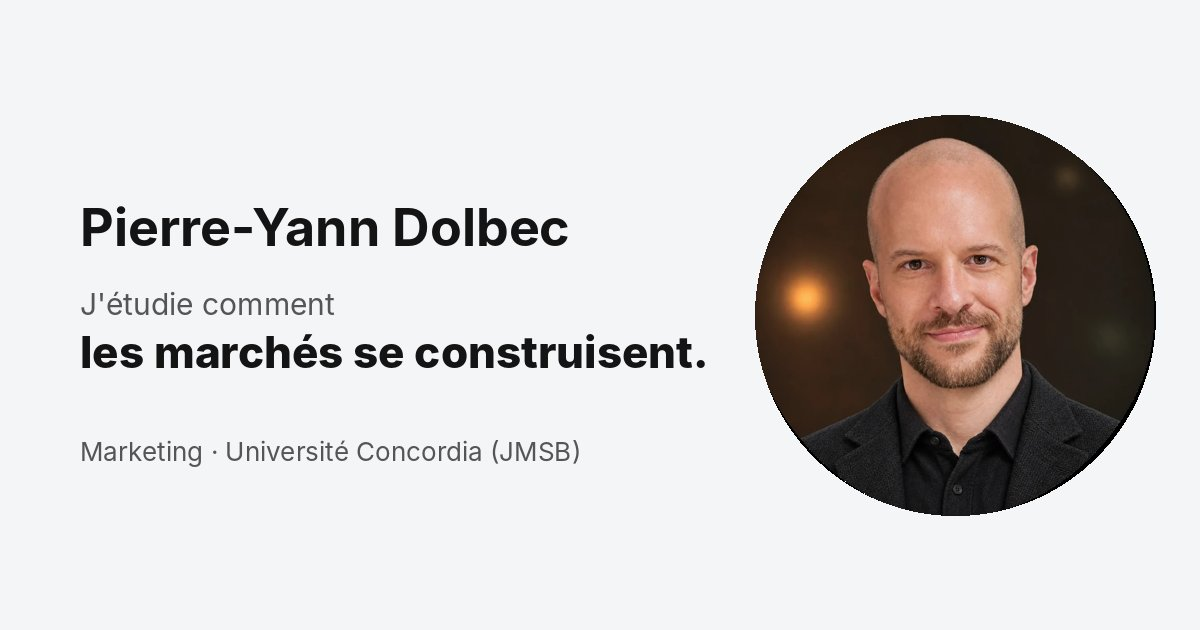
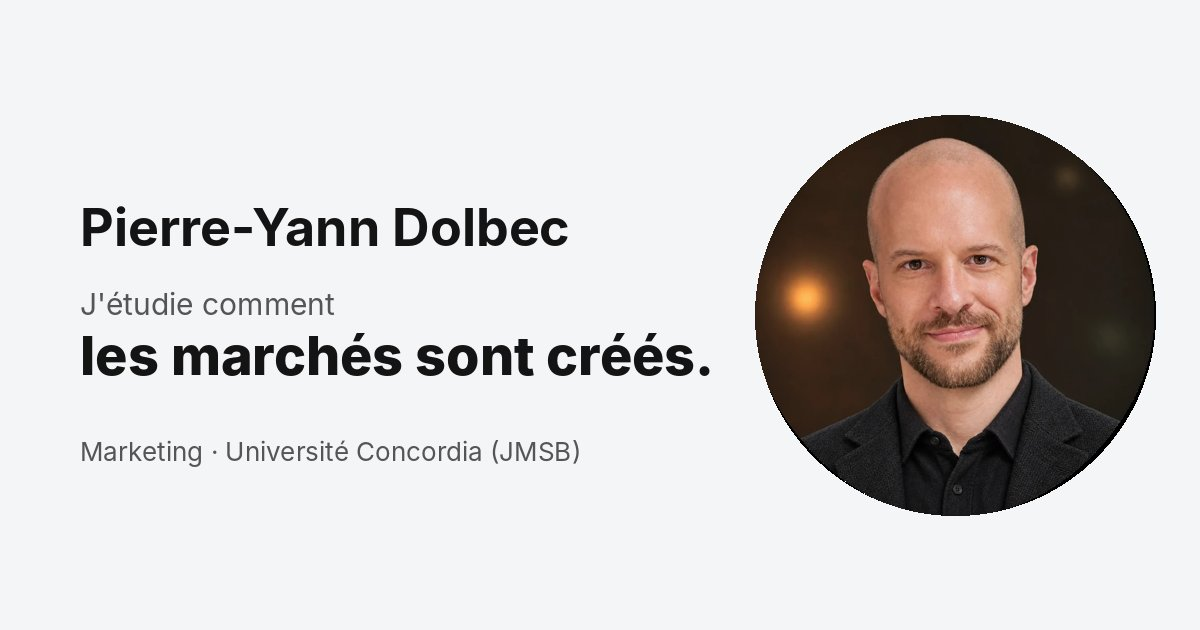
French tagline: « Les marchés sont créés. »
Claude-Session: https://claude.ai/code/session_019wVdqta6m8tHTeBzfYNKRC

Changed region(s): [[0.0617, 0.5127, 0.5858, 0.6032]]

diff --git a/fr/media/index.html b/fr/media/index.html
@@ -37,8 +37,8 @@
 <div><span class="chip" style="cursor:default">Marchés culturels et technologiques, goût, mode et innovation</span><span class="chip" style="cursor:default">Marché des sneakers et lancements en édition limitée (drops)</span><span class="chip" style="cursor:default">Mode de luxe, streetwear et streetwear de luxe</span><span class="chip" style="cursor:default">Marché du café et café de troisième vague</span><span class="chip" style="cursor:default">Marchandisation de l&#x27;éducation</span><span class="chip" style="cursor:default">Plateformes de services comme Uber et Airbnb</span><span class="chip" style="cursor:default">Marché de la voiture électrique et Tesla</span><span class="chip" style="cursor:default">Influenceurs et marketing sur les réseaux sociaux</span></div>
 <h2>Biographie</h2>
 <div class="bios">
-<div class="bio"><div class="kicker">Biographie courte</div><p id="bio-s">Pierre-Yann Dolbec est professeur agrégé de marketing à l&#x27;École de gestion John-Molson de l&#x27;Université Concordia, à Montréal. Il étudie comment les marchés se construisent et se transforment, du streetwear et du café aux créateurs de contenu et aux plateformes. Ses recherches paraissent dans le Journal of Consumer Research, le Journal of Marketing Research et le Journal of Marketing.</p><button class="chip" onclick="navigator.clipboard.writeText(document.getElementById('bio-s').innerText)">Copier</button></div>
-<div class="bio"><div class="kicker">Biographie longue</div><p id="bio-l">Pierre-Yann Dolbec est professeur agrégé de marketing à l&#x27;École de gestion John-Molson de l&#x27;Université Concordia, à Montréal. Il étudie comment les marchés se construisent et se transforment, et comment les entreprises et les consommateurs gèrent la complexité qui en découle. Ses travaux portent sur les marchés de la mode et du streetwear, du café, des sneakers, de la musique, de l&#x27;éducation et des plateformes comme Uber et Airbnb, ainsi que sur l&#x27;économie des créateurs. Ils paraissent dans le Journal of Consumer Research, le Journal of Marketing Research, le Journal of Marketing et l&#x27;Academy of Management Journal, et ont été présentés au Forum économique mondial. Il a reçu près de 1 M$ en financement de recherche et siège aux comités de rédaction de six revues, dont le Journal of Consumer Research et le Journal of Consumer Psychology. Ses travaux ont été couverts par CBC, Radio-Canada, CTV, Global TV, Channel News Asia, Le Devoir, Les Affaires et le National Post. Il accorde des entrevues en français et en anglais.</p><button class="chip" onclick="navigator.clipboard.writeText(document.getElementById('bio-l').innerText)">Copier</button></div>
+<div class="bio"><div class="kicker">Biographie courte</div><p id="bio-s">Pierre-Yann Dolbec est professeur agrégé de marketing à l&#x27;École de gestion John-Molson de l&#x27;Université Concordia, à Montréal. Il étudie comment les marchés sont créés et se transforment, du streetwear et du café aux créateurs de contenu et aux plateformes. Ses recherches paraissent dans le Journal of Consumer Research, le Journal of Marketing Research et le Journal of Marketing.</p><button class="chip" onclick="navigator.clipboard.writeText(document.getElementById('bio-s').innerText)">Copier</button></div>
+<div class="bio"><div class="kicker">Biographie longue</div><p id="bio-l">Pierre-Yann Dolbec est professeur agrégé de marketing à l&#x27;École de gestion John-Molson de l&#x27;Université Concordia, à Montréal. Il étudie comment les marchés sont créés et se transforment, et comment les entreprises et les consommateurs gèrent la complexité qui en découle. Ses travaux portent sur les marchés de la mode et du streetwear, du café, des sneakers, de la musique, de l&#x27;éducation et des plateformes comme Uber et Airbnb, ainsi que sur l&#x27;économie des créateurs. Ils paraissent dans le Journal of Consumer Research, le Journal of Marketing Research, le Journal of Marketing et l&#x27;Academy of Management Journal, et ont été présentés au Forum économique mondial. Il a reçu près de 1 M$ en financement de recherche et siège aux comités de rédaction de six revues, dont le Journal of Consumer Research et le Journal of Consumer Psychology. Ses travaux ont été couverts par CBC, Radio-Canada, CTV, Global TV, Channel News Asia, Le Devoir, Les Affaires et le National Post. Il accorde des entrevues en français et en anglais.</p><button class="chip" onclick="navigator.clipboard.writeText(document.getElementById('bio-l').innerText)">Copier</button></div>
 </div>
 <h2>Dans les médias</h2>
 <div class="row news"><b>Academy of Management Insights</b><span>Brazil&#x27;s Temporary Stadium Beer Policy Was a Game-Changer</span><span class="y">2026</span></div><div class="row news"><b>The Up Next Podcast</b><span>How Creators Monetize their Work (with Andrew Smith)</span><span class="y">2026</span></div><div class="row news"><b>CBC News</b><span>They&#x27;re odd, unique and expensive — why niche perfumes are trending</span><span class="y">2026</span></div><div class="row news"><b>Clin d&#x27;Œil</b><span>Pourquoi les prix des parfums sont-ils astronomiques?</span><span class="y">2025</span></div><div class="row news"><b>CBC News</b><span>This video game retailer is revamping the in-store experience for Montreal gamers</span><span class="y">2025</span></div><div class="row news"><b>The Conversation</b><span>Doechii&#x27;s Thom Browne look at the Grammys bridged street culture and luxury fashion</span><span class="y">2025</span></div><div class="row news"><b>CBC Radio One</b><span>Can Reddit stay &#x27;real&#x27;?</span><span class="y">2024</span></div><div class="row news"><b>Radio-Canada, 15-18</b><span>Poursuite végétalienne contre Starbucks et Dunkin&#x27;</span><span class="y">2024</span></div><div class="row news"><b>World Economic Forum, Davos</b><span>The AAK Kolo Nafaso Programme: Securing an Alternative Shea Supply Chain</span><span class="y">2024</span></div><div class="row news"><b>La Presse</b><span>Cafés italiens nouveau genre</span><span class="y">2023</span></div><div class="row news"><b>Radio-Canada, 15-18</b><span>Les grandes chaînes et la culture du café</span><span class="y">2023</span></div><div class="row news"><b>Radio-Canada, 15-18</b><span>On the launch of Starbucks&#x27; Oleato</span><span class="y">2023</span></div><div class="row news"><b>Chief Scientist of Quebec</b><span>Embracing responsible consumption</span><span class="y">2023</span></div><div class="row news"><b>CBC, Let&#x27;s Go</b><span>On the launch of Nike SB Montreal</span><span class="y">2023</span></div><div class="row news"><b>La Presse</b><span>Quel avenir pour nos cafés?</span><span class="y">2022</span></div><div class="row news"><b>CTV News Montreal</b><span>Weekend with Amanda Kline</span><span class="y">2022</span></div><div class="row news"><b>The Conversation</b><span>The craft revolution helped develop the market for specialty coffee</span><span class="y">2022</span></div><div class="row news"><b>INSEAD Knowledge</b><span>Transforming a supply chain into a social enterprise</span><span class="y">2022</span></div><div class="row news"><b>Built In</b><span>Product &#x27;drops&#x27; aren&#x27;t just for sneaker brands</span><span class="y">2021</span></div><div class="row news"><b>The Conversation</b><span>WallStreetBets is disrupting financial markets — possibly permanently</span><span class="y">2021</span></div><div class="row news"><b>Global TV</b><span>Morning News with Laura Casella</span><span class="y">2020</span></div><div class="row news"><b>CJAD 800</b><span>The Andrew Carter Morning Show</span><span class="y">2020</span></div><div class="row news"><b>CTV News</b><span>CTV News at Five</span><span class="y">2020</span></div><div class="row news"><b>Radio-Canada</b><span>L&#x27;Heure du monde</span><span class="y">2019</span></div><div class="row news"><b>Journal de Montréal</b><span>Uber fait souffrir les taxis</span><span class="y">2019</span></div><div class="row news"><b>CJAD 800</b><span>Is Uber beneficial for cities?</span><span class="y">2019</span></div><div class="row news"><b>Les Affaires</b><span>Trois stratégies pour combattre un Airbnb, Tesla ou Uber</span><span class="y">2017</span></div><div class="row news"><b>Le Devoir</b><span>Après Uber, est-ce que l&#x27;application Lyft s&#x27;apprête à prendre pied au Canada?</span><span class="y">2017</span></div>

diff --git a/fr/index.html b/fr/index.html
@@ -4,14 +4,14 @@
 <meta charset="utf-8">
 <meta name="viewport" content="width=device-width, initial-scale=1">
 <title>Pierre-Yann Dolbec · Professeur agrégé de marketing, Université Concordia</title>
-<meta name="description" content="Pierre-Yann Dolbec est professeur agrégé de marketing à l&#x27;École de gestion John-Molson de l&#x27;Université Concordia. Il étudie comment les marchés se construisent, du streetwear au café de spécialité et à l&#x27;économie des créateurs.">
+<meta name="description" content="Pierre-Yann Dolbec est professeur agrégé de marketing à l&#x27;École de gestion John-Molson de l&#x27;Université Concordia. Il étudie comment les marchés sont créés, du streetwear au café de spécialité et à l&#x27;économie des créateurs.">
 <link rel="canonical" href="https://pydolbec.com/fr/">
 <link rel="alternate" hreflang="en" href="https://pydolbec.com/">
 <link rel="alternate" hreflang="fr" href="https://pydolbec.com/fr/">
 <link rel="alternate" hreflang="x-default" href="https://pydolbec.com/">
 <meta property="og:title" content="Pierre-Yann Dolbec · Professeur agrégé de marketing, Université Concordia">
 <meta property="og:url" content="https://pydolbec.com/fr/">
-<meta property="og:description" content="Pierre-Yann Dolbec est professeur agrégé de marketing à l&#x27;École de gestion John-Molson de l&#x27;Université Concordia. Il étudie comment les marchés se construisent, du streetwear au café de spécialité et à l&#x27;économie des créateurs.">
+<meta property="og:description" content="Pierre-Yann Dolbec est professeur agrégé de marketing à l&#x27;École de gestion John-Molson de l&#x27;Université Concordia. Il étudie comment les marchés sont créés, du streetwear au café de spécialité et à l&#x27;économie des créateurs.">
 <meta property="og:type" content="website">
 <meta property="og:image" content="https://pydolbec.com/assets/img/og/default-fr.jpg">
 <meta property="og:image:width" content="1200">
@@ -34,7 +34,7 @@
 <div class="wrap">
 <section class="hero">
 <div>
-<h1 class="hero-h1"><span class="s1">J&#x27;étudie comment</span> <span class="big">Les marchés se construisent.</span></h1>
+<h1 class="hero-h1"><span class="s1">J&#x27;étudie comment</span> <span class="big">Les marchés sont créés.</span></h1>
 <p class="s2">Le streetwear dans le luxe, le café de spécialité, l&#x27;économie des créateurs : chacun est devenu un marché parce que des gens l&#x27;ont bâti. Ma recherche montre qui les a bâtis, et comment.</p>
 <p class="s3"><b>Pierre-Yann Dolbec</b> · Professeur agrégé de marketing, École de gestion John-Molson, Université Concordia</p>
 </div>

diff --git a/fr/research/index.html b/fr/research/index.html
@@ -4,14 +4,14 @@
 <meta charset="utf-8">
 <meta name="viewport" content="width=device-width, initial-scale=1">
 <title>Recherche · Pierre-Yann Dolbec</title>
-<meta name="description" content="Recherche de Pierre-Yann Dolbec sur la construction des marchés : streetwear et mode de luxe, café artisanal, économie des créateurs, réglementation et méthodes qualitatives.">
+<meta name="description" content="Recherche de Pierre-Yann Dolbec sur la création des marchés : streetwear et mode de luxe, café artisanal, économie des créateurs, réglementation et méthodes qualitatives.">
 <link rel="canonical" href="https://pydolbec.com/fr/research/">
 <link rel="alternate" hreflang="en" href="https://pydolbec.com/research/">
 <link rel="alternate" hreflang="fr" href="https://pydolbec.com/fr/research/">
 <link rel="alternate" hreflang="x-default" href="https://pydolbec.com/research/">
 <meta property="og:title" content="Recherche · Pierre-Yann Dolbec">
 <meta property="og:url" content="https://pydolbec.com/fr/research/">
-<meta property="og:description" content="Recherche de Pierre-Yann Dolbec sur la construction des marchés : streetwear et mode de luxe, café artisanal, économie des créateurs, réglementation et méthodes qualitatives.">
+<meta property="og:description" content="Recherche de Pierre-Yann Dolbec sur la création des marchés : streetwear et mode de luxe, café artisanal, économie des créateurs, réglementation et méthodes qualitatives.">
 <meta property="og:type" content="website">
 <meta property="og:image" content="https://pydolbec.com/assets/img/og/default-fr.jpg">
 <meta property="og:image:width" content="1200">

diff --git a/_build/content.py b/_build/content.py
@@ -21,7 +21,7 @@ HOME_SEO = {
            "desc": "Pierre-Yann Dolbec is Associate Professor of Marketing at Concordia University's John Molson School of Business. He studies how markets are made, from streetwear and craft coffee to the creator economy."},
     "fr": {"title": "Professeur agrégé de marketing, Université Concordia",
            "job": "Professeur agrégé de marketing",
-           "desc": "Pierre-Yann Dolbec est professeur agrégé de marketing à l'École de gestion John-Molson de l'Université Concordia. Il étudie comment les marchés se construisent, du streetwear au café de spécialité et à l'économie des créateurs."},
+           "desc": "Pierre-Yann Dolbec est professeur agrégé de marketing à l'École de gestion John-Molson de l'Université Concordia. Il étudie comment les marchés sont créés, du streetwear au café de spécialité et à l'économie des créateurs."},
 }
 
 PAGE_DESC = {
@@ -33,7 +33,7 @@ PAGE_DESC = {
     },
     "fr": {
         "about": "À propos de Pierre-Yann Dolbec, professeur agrégé de marketing à l'École de gestion John-Molson de l'Université Concordia : recherche, parcours, comités de lecture et CV.",
-        "research": "Recherche de Pierre-Yann Dolbec sur la construction des marchés : streetwear et mode de luxe, café artisanal, économie des créateurs, réglementation et méthodes qualitatives.",
+        "research": "Recherche de Pierre-Yann Dolbec sur la création des marchés : streetwear et mode de luxe, café artisanal, économie des créateurs, réglementation et méthodes qualitatives.",
         "media": "Ressources médias sur Pierre-Yann Dolbec, professeur de marketing à l'Université Concordia : sujets d'entrevue, biographies et couverture de presse. Entrevues en français et en anglais.",
         "teaching": "Enseignement de Pierre-Yann Dolbec à l'Université Concordia : cours, manuels libres sur le marketing numérique et sur l'IA et le marketing, et un cas pédagogique.",
     },
@@ -92,7 +92,7 @@ UI = {
     "fr": {
         "nav": [("about", "À propos"), ("research", "Recherche"), ("media", "Médias"), ("teaching", "Enseignement")],
         "hero_small": "J'étudie comment",
-        "hero_big": "Les marchés se construisent.",
+        "hero_big": "Les marchés sont créés.",
         "hero_p2": "Le streetwear dans le luxe, le café de spécialité, l'économie des créateurs : chacun est devenu un marché parce que des gens l'ont bâti. Ma recherche montre qui les a bâtis, et comment.",
         "hero_p3": "Professeur agrégé de marketing, École de gestion John-Molson, Université Concordia",
         "for_managers": "Pour les gestionnaires :",
@@ -249,8 +249,8 @@ BIOS = {
         "long": "Pierre-Yann Dolbec is Associate Professor of Marketing at the John Molson School of Business, Concordia University, in Montréal. He studies how markets are made and change, and how companies and consumers deal with the complexity this creates. His work covers markets for fashion and streetwear, coffee, sneakers, music, education and platform services such as Uber and Airbnb, as well as the creator economy. It appears in the Journal of Consumer Research, Journal of Marketing Research, Journal of Marketing and Academy of Management Journal, and has been presented at the World Economic Forum. He has received close to $1M in research funding and sits on the editorial review boards of six journals, including the Journal of Consumer Research and the Journal of Consumer Psychology. His work has been covered by CBC, Radio-Canada, CTV News, Global TV, Channel News Asia, Le Devoir, Les Affaires and the National Post. He gives interviews in English and French.",
     },
     "fr": {
-        "short": "Pierre-Yann Dolbec est professeur agrégé de marketing à l'École de gestion John-Molson de l'Université Concordia, à Montréal. Il étudie comment les marchés se construisent et se transforment, du streetwear et du café aux créateurs de contenu et aux plateformes. Ses recherches paraissent dans le Journal of Consumer Research, le Journal of Marketing Research et le Journal of Marketing.",
-        "long": "Pierre-Yann Dolbec est professeur agrégé de marketing à l'École de gestion John-Molson de l'Université Concordia, à Montréal. Il étudie comment les marchés se construisent et se transforment, et comment les entreprises et les consommateurs gèrent la complexité qui en découle. Ses travaux portent sur les marchés de la mode et du streetwear, du café, des sneakers, de la musique, de l'éducation et des plateformes comme Uber et Airbnb, ainsi que sur l'économie des créateurs. Ils paraissent dans le Journal of Consumer Research, le Journal of Marketing Research, le Journal of Marketing et l'Academy of Management Journal, et ont été présentés au Forum économique mondial. Il a reçu près de 1 M$ en financement de recherche et siège aux comités de rédaction de six revues, dont le Journal of Consumer Research et le Journal of Consumer Psychology. Ses travaux ont été couverts par CBC, Radio-Canada, CTV, Global TV, Channel News Asia, Le Devoir, Les Affaires et le National Post. Il accorde des entrevues en français et en anglais.",
+        "short": "Pierre-Yann Dolbec est professeur agrégé de marketing à l'École de gestion John-Molson de l'Université Concordia, à Montréal. Il étudie comment les marchés sont créés et se transforment, du streetwear et du café aux créateurs de contenu et aux plateformes. Ses recherches paraissent dans le Journal of Consumer Research, le Journal of Marketing Research et le Journal of Marketing.",
+        "long": "Pierre-Yann Dolbec est professeur agrégé de marketing à l'École de gestion John-Molson de l'Université Concordia, à Montréal. Il étudie comment les marchés sont créés et se transforment, et comment les entreprises et les consommateurs gèrent la complexité qui en découle. Ses travaux portent sur les marchés de la mode et du streetwear, du café, des sneakers, de la musique, de l'éducation et des plateformes comme Uber et Airbnb, ainsi que sur l'économie des créateurs. Ils paraissent dans le Journal of Consumer Research, le Journal of Marketing Research, le Journal of Marketing et l'Academy of Management Journal, et ont été présentés au Forum économique mondial. Il a reçu près de 1 M$ en financement de recherche et siège aux comités de rédaction de six revues, dont le Journal of Consumer Research et le Journal of Consumer Psychology. Ses travaux ont été couverts par CBC, Radio-Canada, CTV, Global TV, Channel News Asia, Le Devoir, Les Affaires et le National Post. Il accorde des entrevues en français et en anglais.",
     },
 }
 
